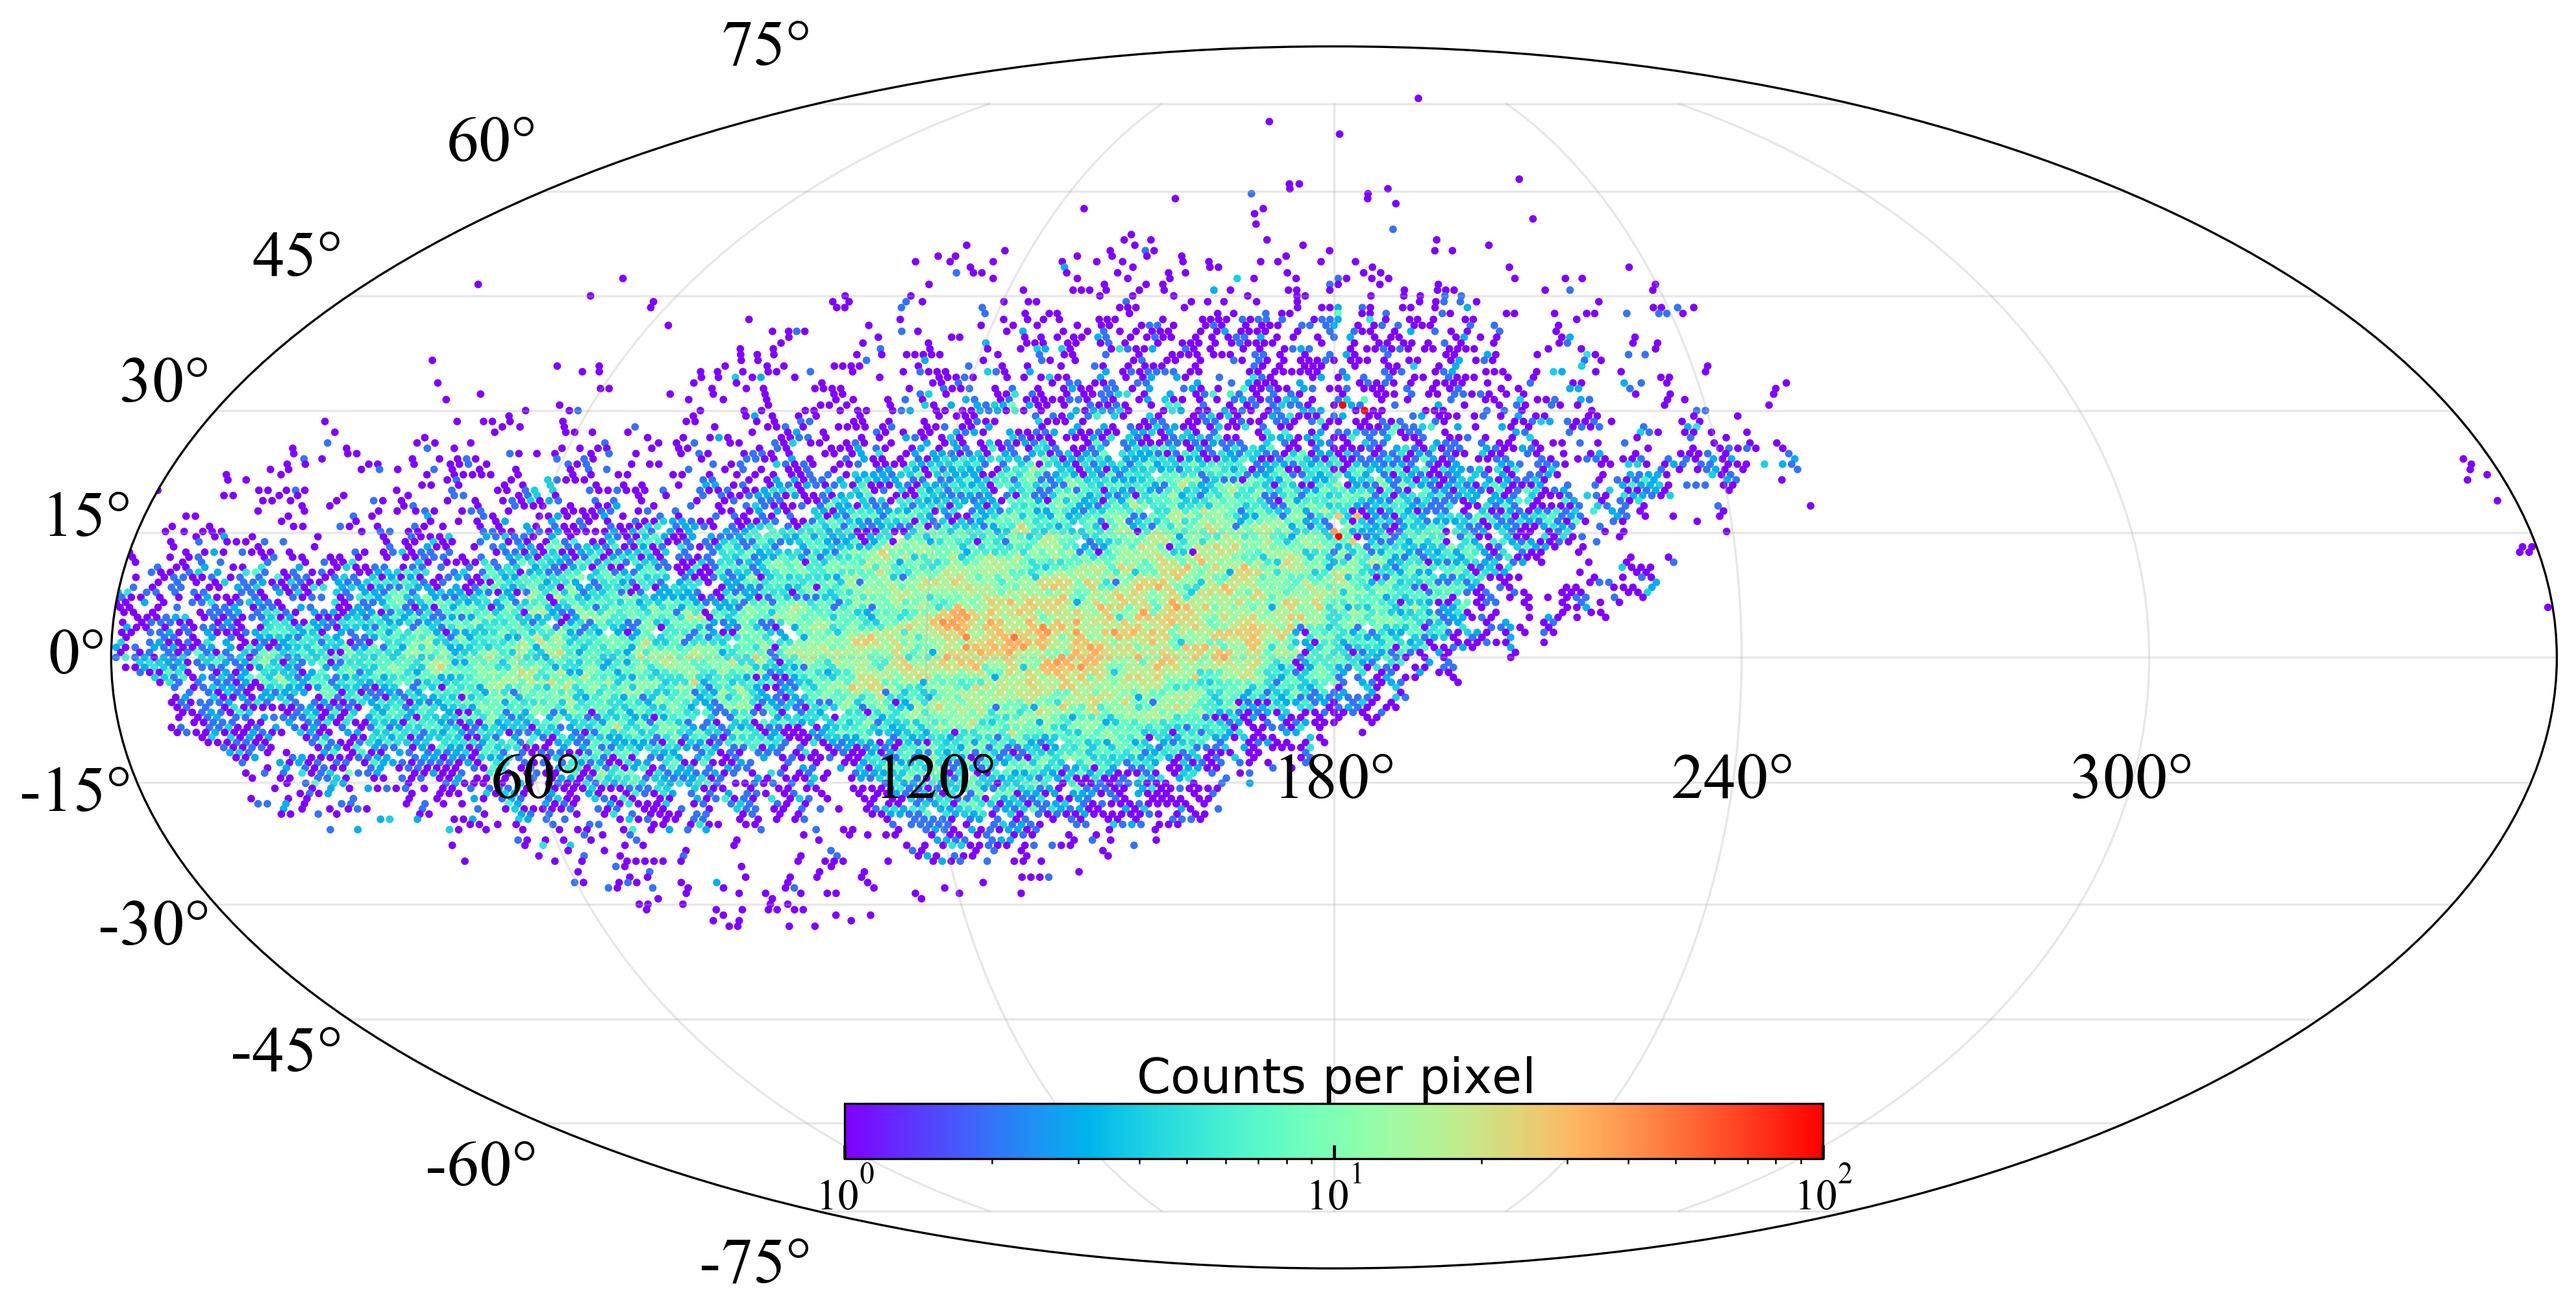
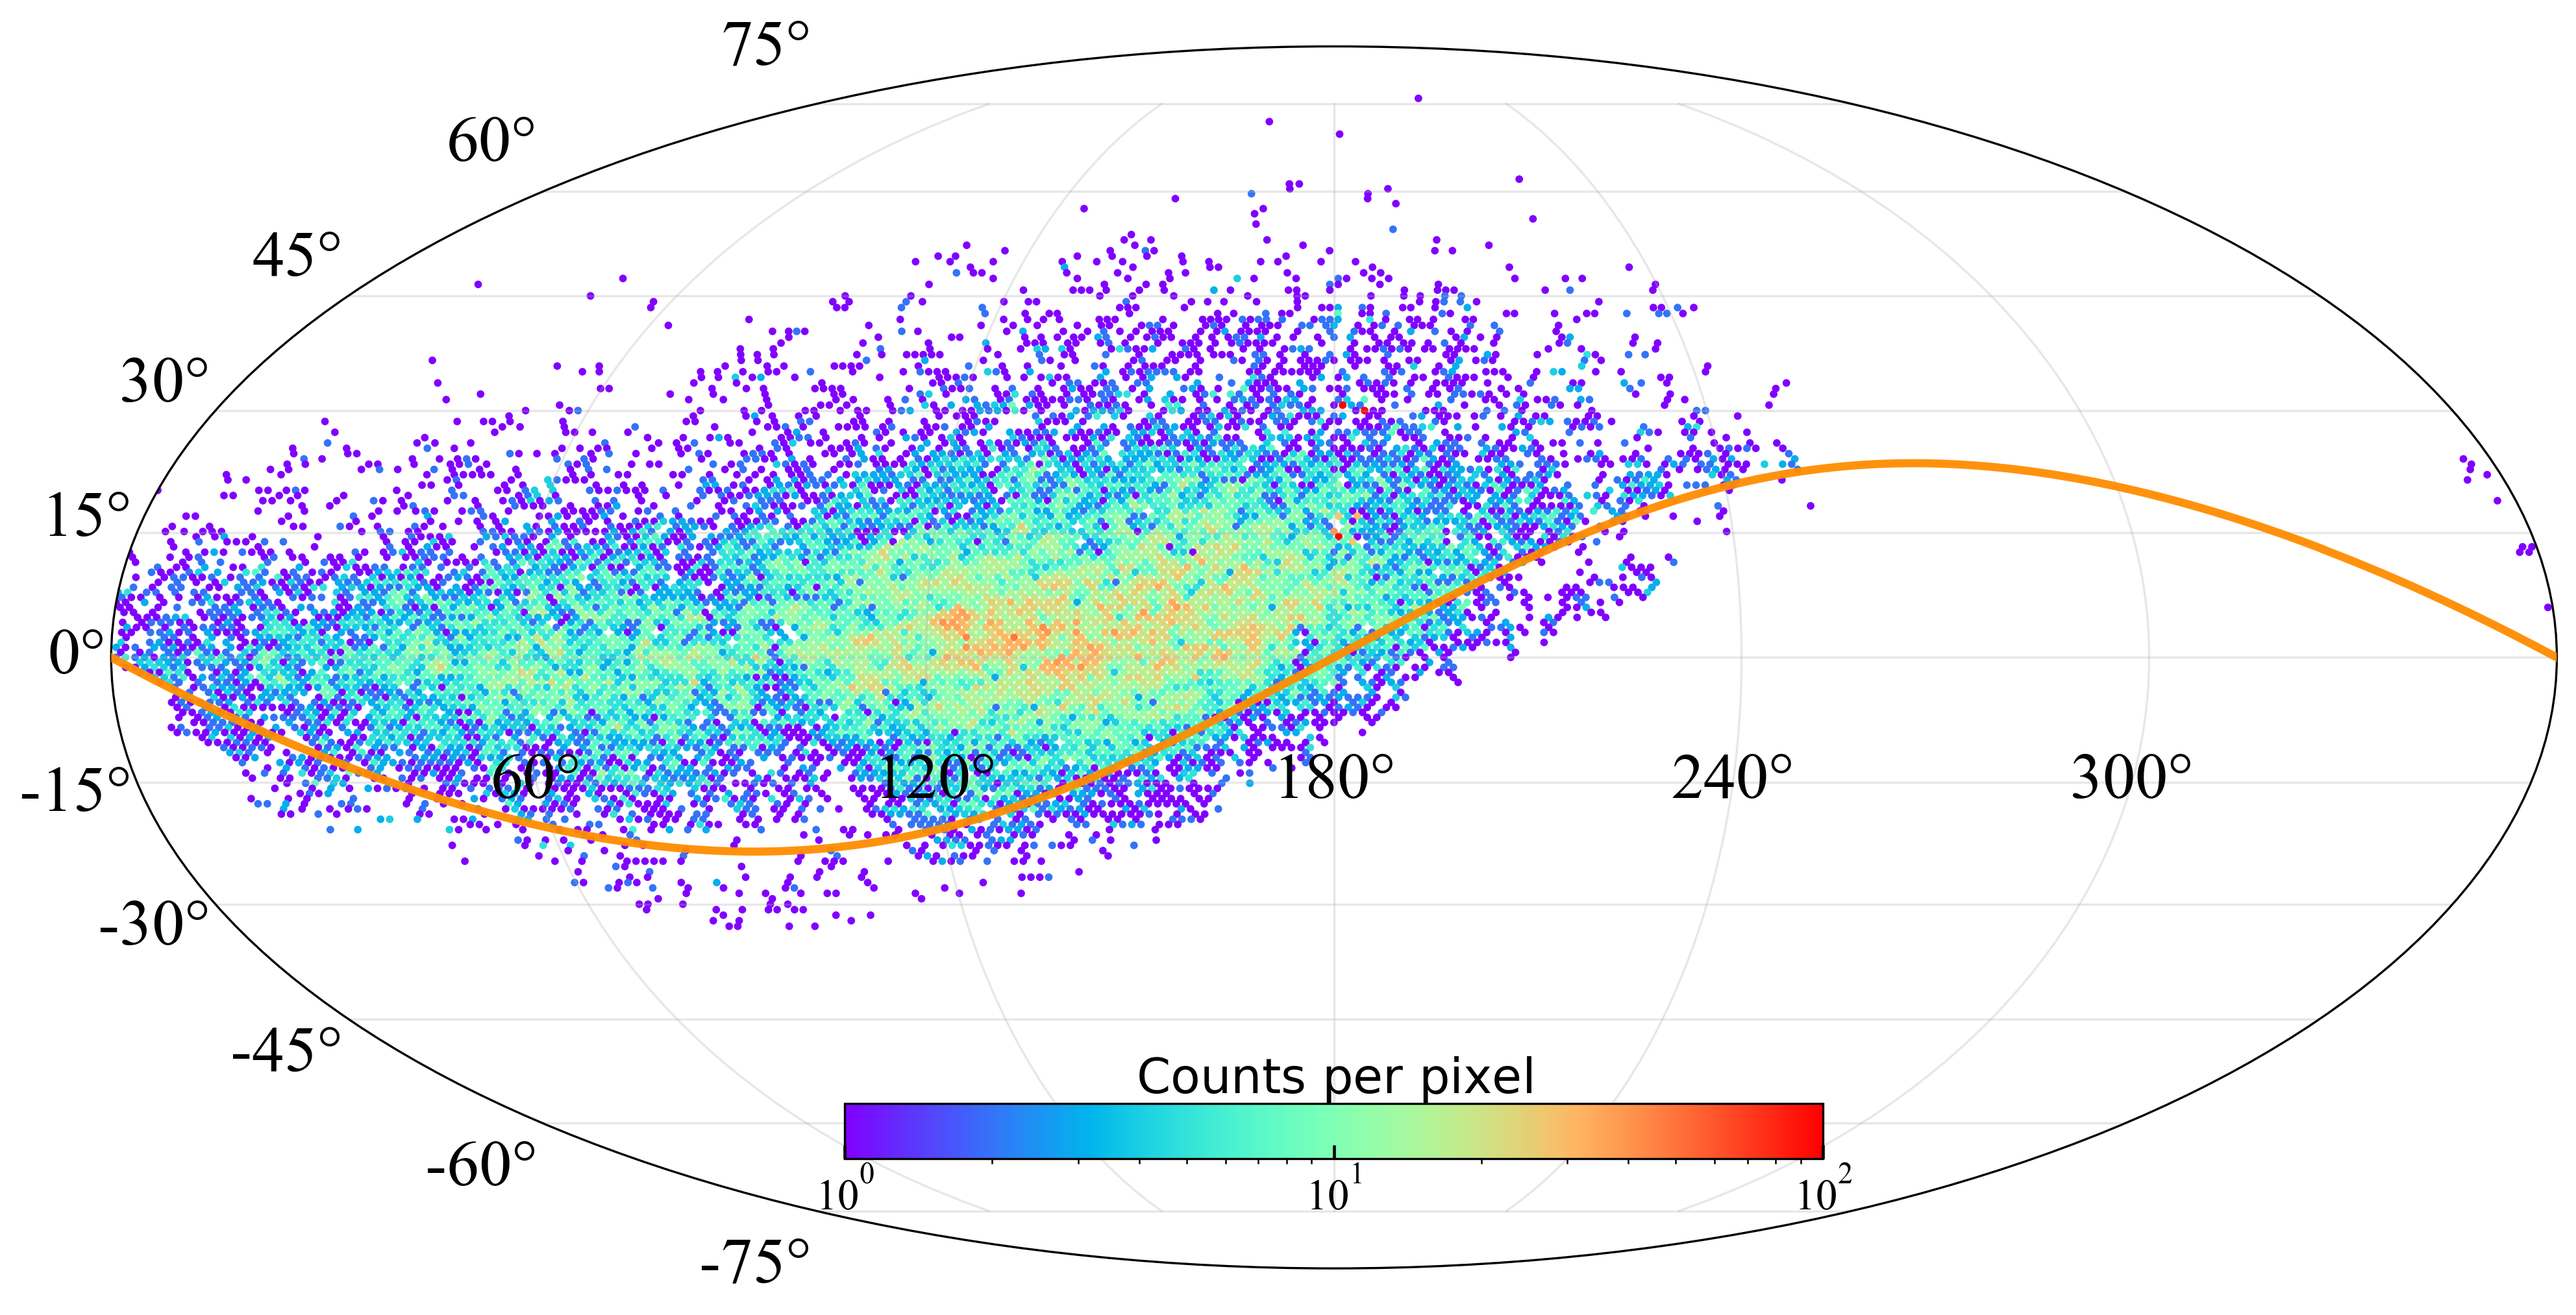
Add equatorial-plane curve to ecliptic sky map

diff --git a/reviewer_figures_20260701/make_ecliptic_healpix.py b/reviewer_figures_20260701/make_ecliptic_healpix.py
@@ -75,6 +75,16 @@ def icrs_to_ecliptic(ra_deg: np.ndarray, dec_deg: np.ndarray) -> tuple[np.ndarra
     return ecl.lon.to_value(u.deg), ecl.lat.to_value(u.deg)
 
 
+def plot_celestial_equator(ax) -> None:
+    ra = np.linspace(0.0, 360.0, 2000)
+    dec = np.zeros_like(ra)
+    lon_ecl, lat_ecl = icrs_to_ecliptic(ra, dec)
+    x = lon_to_mollweide_rad(lon_ecl, center_deg=180.0)
+    y = np.deg2rad(lat_ecl)
+    order = np.argsort(x)
+    ax.plot(x[order], y[order], color="#ff8c00", linewidth=3.0, alpha=0.95, zorder=9)
+
+
 def plot_ecliptic_healpix(columns: dict[str, np.ndarray], out_png: Path, out_pdf: Path, nside: int = 64) -> None:
     ra = np.asarray(columns["ra"], dtype=float)
     dec = np.asarray(columns["dec"], dtype=float)
@@ -119,6 +129,7 @@ def plot_ecliptic_healpix(columns: dict[str, np.ndarray], out_png: Path, out_pdf
     ax.grid(True, alpha=0.3)
     set_mollweide_lon_ticks_0_360(ax, center_deg=180.0, step=60)
     ax.tick_params(axis="y", labelsize=24)
+    plot_celestial_equator(ax)
 
     cax = ax.inset_axes([0.30, 0.09, 0.40, 0.045])
     cb = fig.colorbar(im, cax=cax, orientation="horizontal")

diff --git a/PLAN.md b/PLAN.md
@@ -29,6 +29,7 @@ Sky-density HEALPix 图已新生成黄道坐标版本：
 `reviewer_figures_20260701/gotta_ecliptic_healpix_nside64.png` 和
 `reviewer_figures_20260701/gotta_ecliptic_healpix_nside64.pdf`。
 该图复用原 `gotta_radec_healpix_nside64` 样式，只把 ICRS `ra/dec` 转为黄道经纬后重新 binning。
+最新版本已叠加橙色曲线表示天球赤道/赤道面在黄道坐标系中的位置，不加 legend。
 
 历史目标：按导师返回意见继续修订 `paper_draft/v9.tex` 和 `paper_draft/v9.pdf`。
 保持科学定位为 GOTTA Prototype known-asteroid extraction and statistical performance evaluation。
@@ -114,12 +115,13 @@ Table 2 最新调整为 `tabular*{1.10\textwidth}`：第 2--3 列固定小间距
 63. 已按用户澄清只调整左图其他小行星 marker：非最终目标改为青绿色小实心十字并跳过边缘截断 marker，最终四目标和右侧 cutout 恢复中心留空四段式 marker
 64. 已对 Fig. 1 cutouts 增加大尺度背景扣除并使用统一线性 display scale，降低背景不均匀和过亮
 65. 已重画 sky-density HEALPix 图：由赤道坐标 RA/Dec 转换到黄道经纬，保持原图样式、nside=64 和输出尺寸
+66. 已在黄道坐标 HEALPix 图中叠加橙色赤道面曲线，不加 legend
 
 ## Outstanding issues
 
 - Fig. 1 已按用户最近反馈微调，等待最终视觉确认
 - Cutout 背景扣除版观感偏 residual display；如需更接近原始图，可继续调亮度/contrast
-- 黄道坐标 HEALPix 图已生成，等待用户视觉确认
+- 黄道坐标 HEALPix 图已生成并叠加赤道面曲线，等待用户视觉确认
 - 4 个 selection-sheet 目标缺少本地 angular-rate 匹配：`2006 FT8`、`2004 JC30`、`2003 BL70`、`2009 QE23`
 - 其余审稿意见中需要重画的具体图号、修改要求或示例风格尚未收到；收到后需要逐条映射到具体输出文件和生成函数
 - 如果用户在 Overleaf 手动修改，应后续下载最新版 `.tex` 或完整 project zip 并同步回本地 git

diff --git a/WORKLOG.md b/WORKLOG.md
@@ -2,6 +2,22 @@
 
 ## 2026-07-01
 
+- task: 在黄道坐标 HEALPix 图中标出赤道面
+- files_changed: `reviewer_figures_20260701/make_ecliptic_healpix.py`, `reviewer_figures_20260701/gotta_ecliptic_healpix_nside64.png`, `reviewer_figures_20260701/gotta_ecliptic_healpix_nside64.pdf`, `WORKLOG.md`, `PLAN.md`
+- commands_run: `find` reference image; `view_image` reference image; `python3 -m py_compile reviewer_figures_20260701/make_ecliptic_healpix.py`; `python3 reviewer_figures_20260701/make_ecliptic_healpix.py`; `sips` image-size check; `view_image` visual QA
+- key_findings:
+  - 参考图用橙色曲线标出坐标平面，不需要 legend
+  - 已在黄道坐标图中计算 ICRS `Dec=0` 的大圆，并转换到黄道经纬后叠加
+  - 曲线表示天球赤道/赤道面在黄道坐标系中的位置
+- validation:
+  - `make_ecliptic_healpix.py` passed Python syntax check
+  - Regenerated `gotta_ecliptic_healpix_nside64.png/.pdf`
+  - Visual QA confirmed orange equatorial-plane curve is visible and no legend is added
+- remaining_issues:
+  - 无
+- next_step:
+  - 用户确认黄道坐标 sky-density 图和更新后的 caption
+
 - task: 将 GOTTA sky-density HEALPix 图从赤道坐标改为黄道坐标
 - files_changed: `reviewer_figures_20260701/make_ecliptic_healpix.py`, `reviewer_figures_20260701/gotta_ecliptic_healpix_nside64.png`, `reviewer_figures_20260701/gotta_ecliptic_healpix_nside64.pdf`, `WORKLOG.md`, `PLAN.md`
 - commands_run: `rg` locate `gotta_radec_healpix_nside64` source; `sed` inspect `scripts/plot_gotta_asteroids.py`; Python dependency/version check; `python3 -m py_compile reviewer_figures_20260701/make_ecliptic_healpix.py`; `python3 reviewer_figures_20260701/make_ecliptic_healpix.py`; `sips` image-size checks; Python/Astropy coordinate range check; `view_image` visual QA
